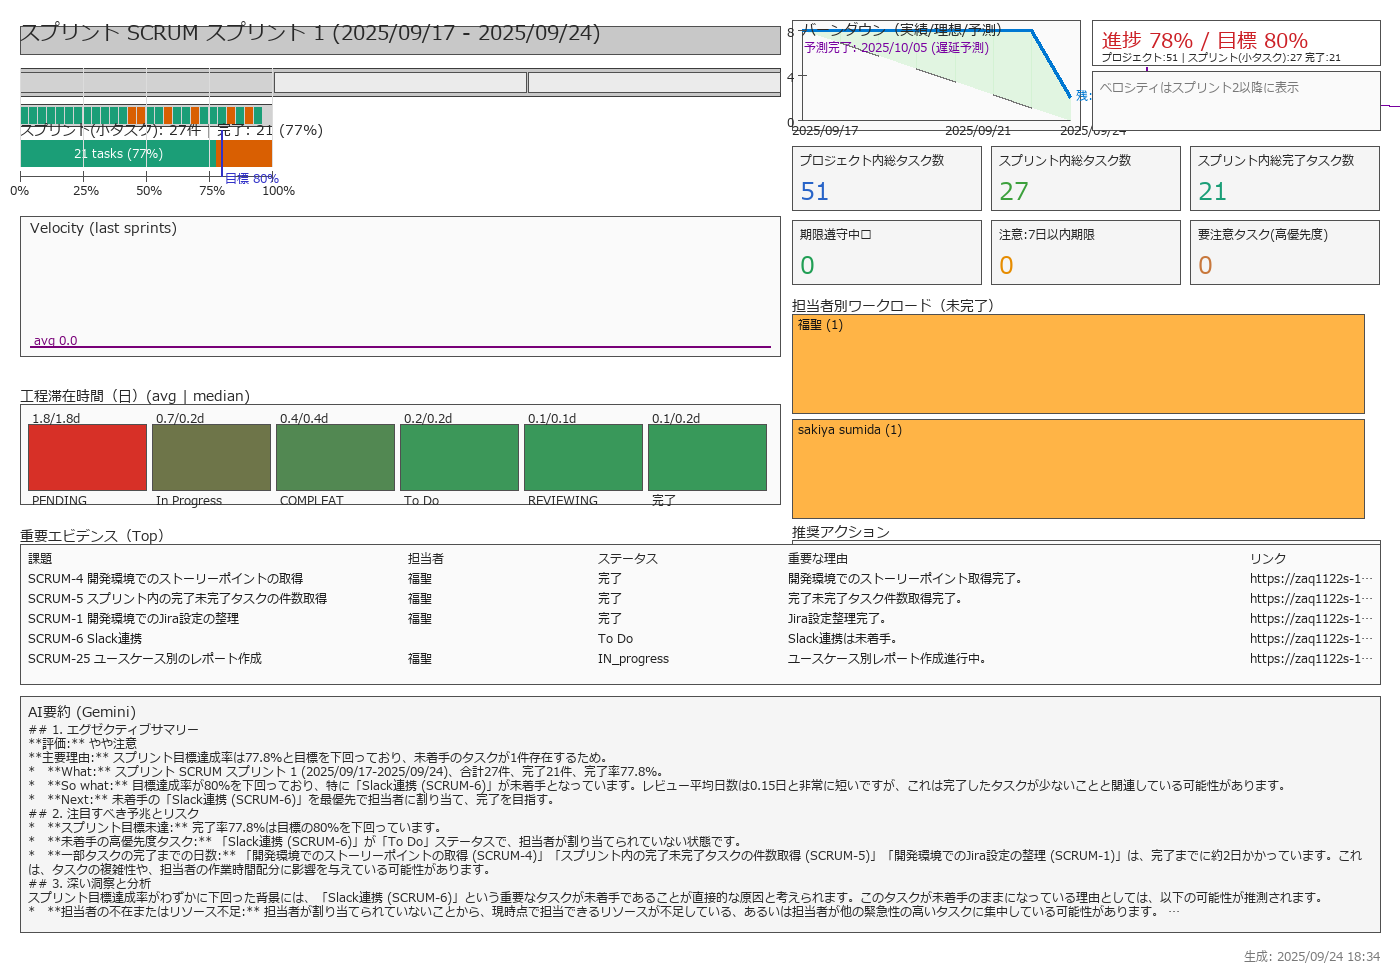
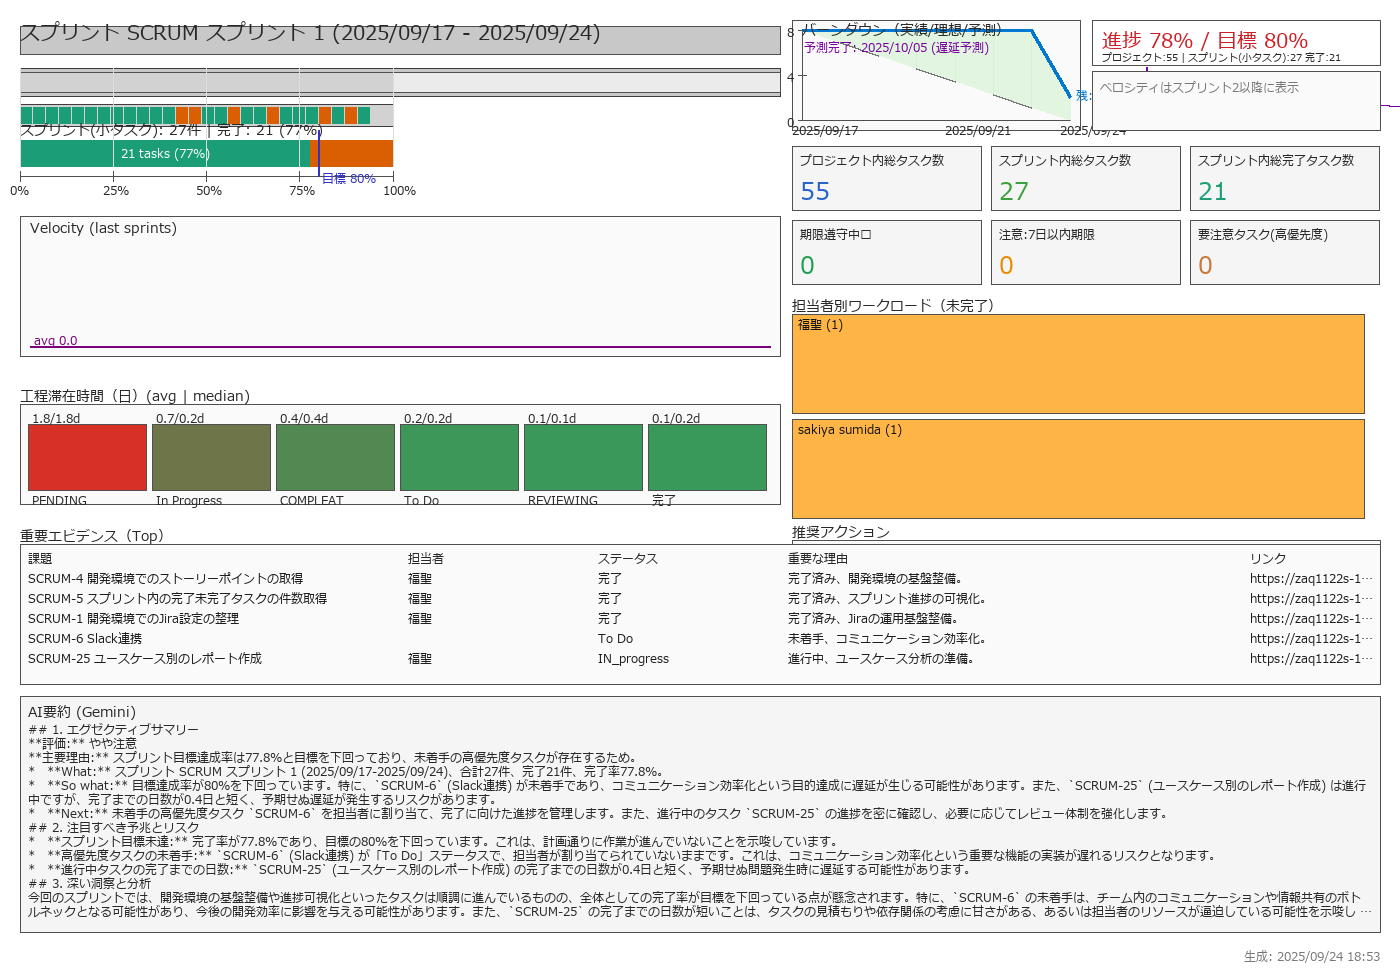
feat: Improve sprint visualization by calculating sprint width based on subtask ratios and update sprint overview report

Changed region(s): [[0.0307, 0.7653, 0.9829, 0.949], [0.0307, 0.0612, 0.3071, 0.2143], [0.5529, 0.5816, 0.7064, 0.6735]]

diff --git a/prototype/local_cli/main.py b/prototype/local_cli/main.py
@@ -692,17 +692,54 @@ def draw_png(
     sprints_n = max(1, sprints_n)
     sprint_gap = 2
     spr_total_w = focus_board_x1 - focus_board_x0
-    spr_seg_w = (spr_total_w - (sprints_n - 1) * sprint_gap) // sprints_n
+    # Precompute sprint total from data for ratio calc (avoid undefined total_cnt)
+    try:
+        _dtot = (data or {}).get("totals", {}) if isinstance(data, dict) else {}
+        sprint_total_data = int(_dtot.get("subtasks", 0))
+    except Exception:
+        sprint_total_data = 0
+    # Try to draw sprint width proportional to subtasks share (sprint vs project)
+    spr_ratio: Optional[float] = None
+    try:
+        kpi_data = (extras or {}).get("kpis", {}) if extras else {}
+        # current sprint subtasks total (prefer KPI, fallback to data)
+        if isinstance(kpi_data, dict):
+            sprint_total = int(kpi_data.get("sprintTotal") or sprint_total_data)
+        else:
+            sprint_total = sprint_total_data
+        proj_total = None
+        if extras and isinstance(extras.get("project_subtask_count"), dict):
+            proj_total = int(extras["project_subtask_count"].get("total") or 0)
+        if not proj_total:
+            proj_total = int(kpi_data.get("projectTotal") or 0) if isinstance(kpi_data, dict) else 0
+        if proj_total and proj_total > 0:
+            spr_ratio = max(0.0, min(1.0, float(sprint_total) / float(proj_total)))
+    except Exception:
+        spr_ratio = None
+
     sx = focus_board_x0
-    focus_s_idx = 0
     focus_s_x0 = sx
-    focus_s_x1 = sx + spr_seg_w
-    for i in range(sprints_n):
-        fill = col_sprint_focus if i == focus_s_idx else col_sprint_other
-        g.rectangle([sx, spr_y0 + 4, sx + spr_seg_w, spr_y1 - 4], fill=fill, outline=col_outline)
-        if i == focus_s_idx:
-            focus_s_x0, focus_s_x1 = sx, sx + spr_seg_w
-        sx += spr_seg_w + sprint_gap
+    focus_s_x1 = sx + spr_total_w
+    if spr_ratio is not None:
+        # Draw current sprint portion vs others (proportional)
+        cur_w = max(2, int(round(spr_total_w * spr_ratio)))
+        other_w = max(0, spr_total_w - cur_w)
+        g.rectangle([sx, spr_y0 + 4, sx + cur_w, spr_y1 - 4], fill=col_sprint_focus, outline=col_outline)
+        if other_w > 0:
+            g.rectangle([sx + cur_w, spr_y0 + 4, sx + cur_w + other_w, spr_y1 - 4], fill=col_sprint_other, outline=col_outline)
+        focus_s_x0, focus_s_x1 = sx, sx + cur_w
+    else:
+        # Fallback to equal segments when ratio is unknown
+        spr_seg_w = (spr_total_w - (sprints_n - 1) * sprint_gap) // sprints_n
+        focus_s_idx = 0
+        focus_s_x0 = sx
+        focus_s_x1 = sx + spr_seg_w
+        for i in range(sprints_n):
+            fill = col_sprint_focus if i == focus_s_idx else col_sprint_other
+            g.rectangle([sx, spr_y0 + 4, sx + spr_seg_w, spr_y1 - 4], fill=fill, outline=col_outline)
+            if i == focus_s_idx:
+                focus_s_x0, focus_s_x1 = sx, sx + spr_seg_w
+            sx += spr_seg_w + sprint_gap
 
     # Tasks row constrained to the focused sprint x-range
     parents = data.get("parents", [])
